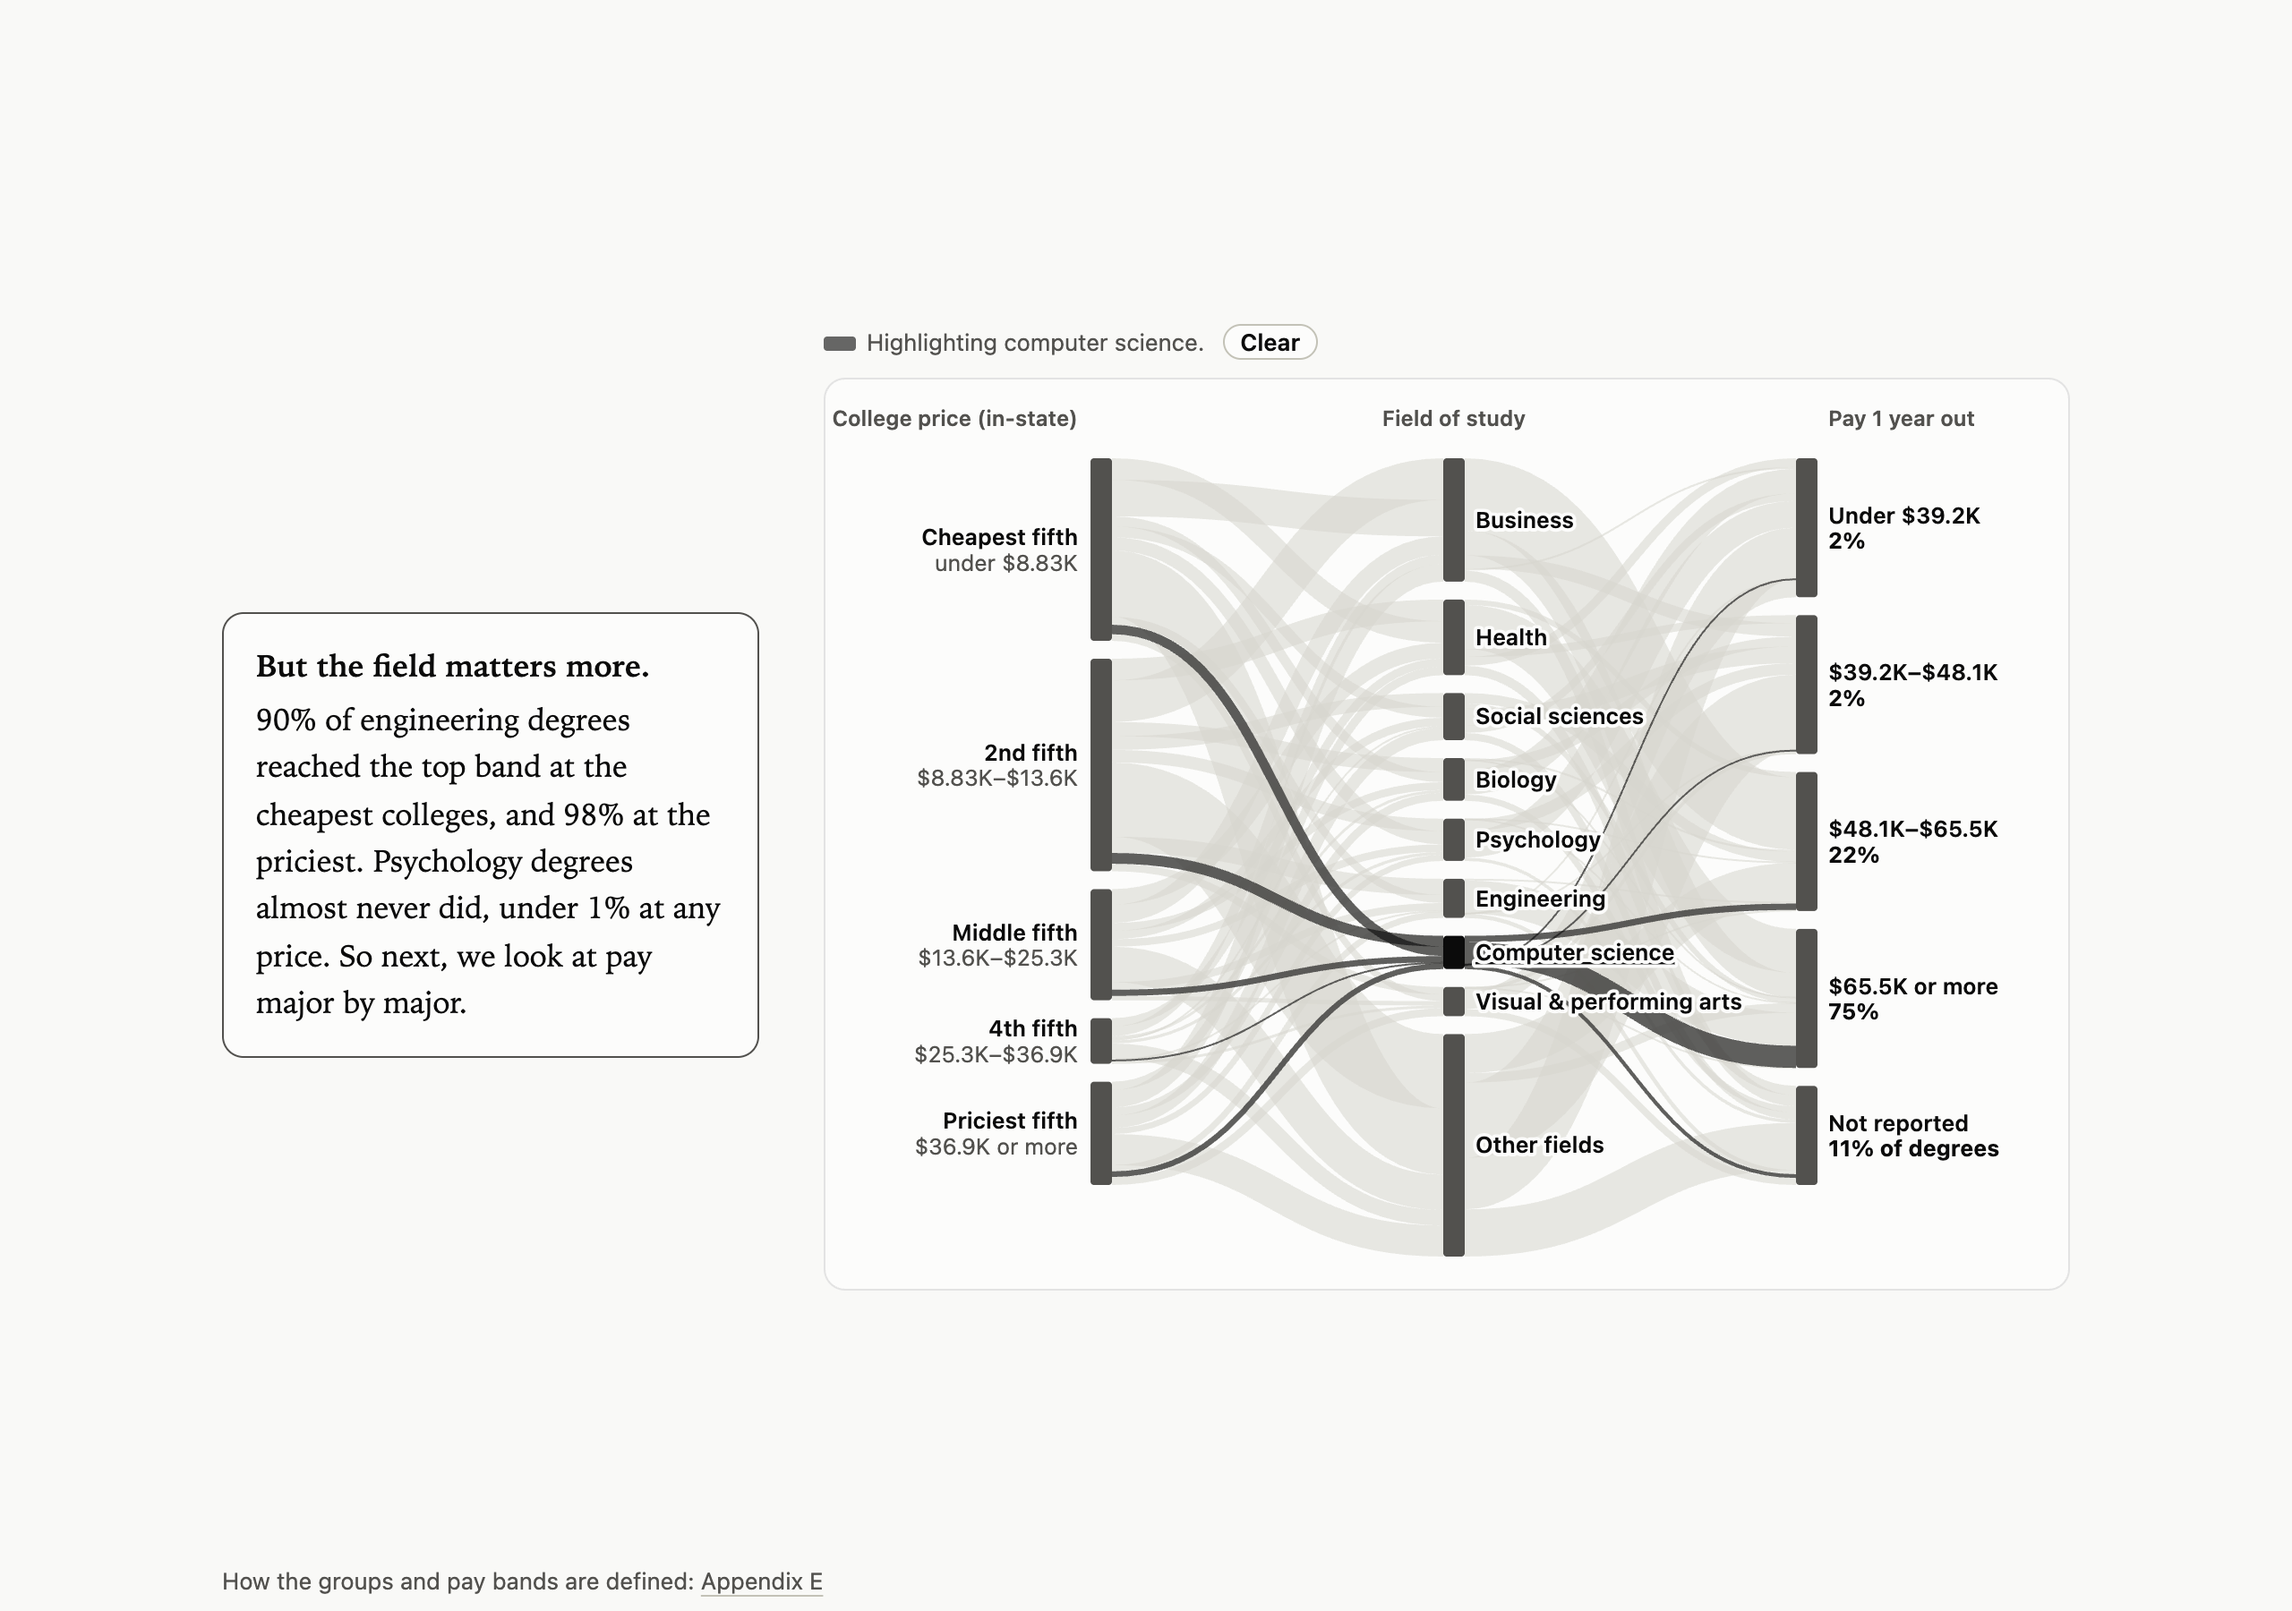
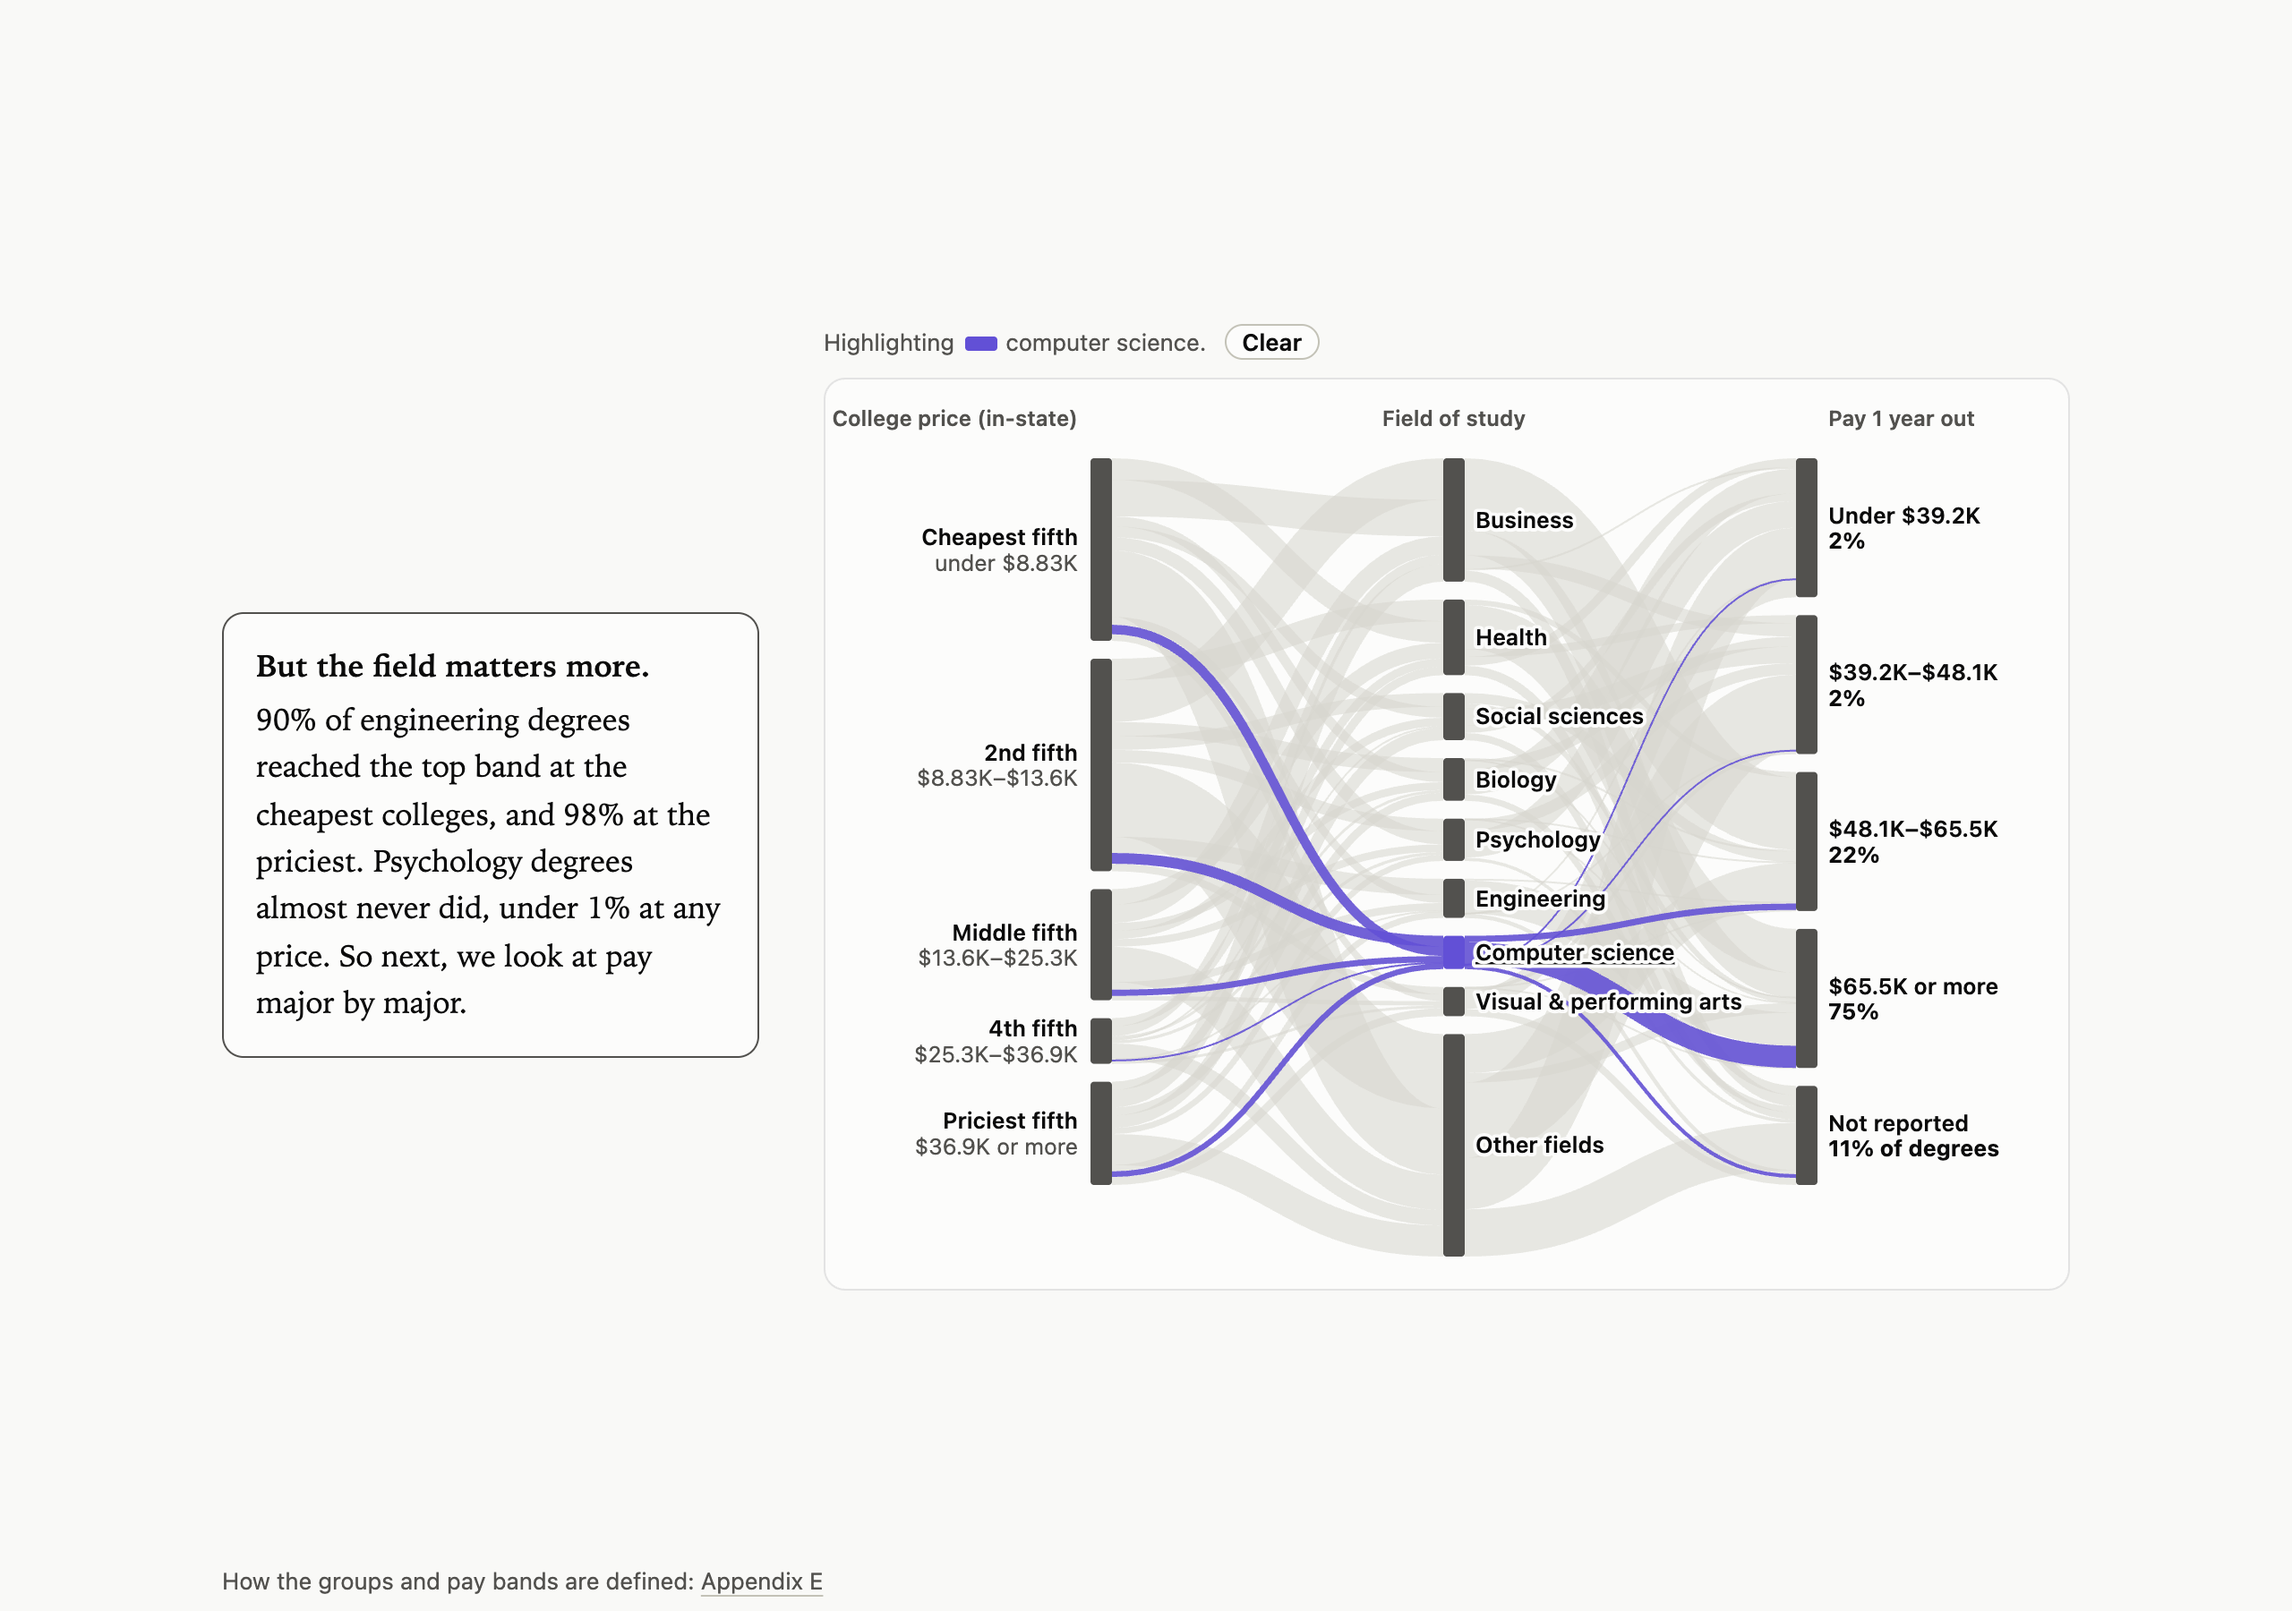
Color the flow chart's highlights instead of drawing them in black
Highlighted flows now use palette slot 7 (violet), and a second group
uses slot 5 (magenta), so the engineering vs. psychology step shows two
distinguishable colors. Highlighted node bars and the swatches in the
note above the chart take the same color, so each color sits next to
its label; text stays in the ink color. School-type hues (blue, orange,
green) are not reused. Both colors validated for light and dark
surfaces (dark steps #9085e9 / #d55181) as --hl-1 / --hl-2 tokens.

Highlights are now a list of groups, each drawn in its own color and
stacked within a flow if they ever overlap. check_flow.mjs gains two
color checks (23 total).

diff --git a/src/lib/components/FlowSankey.svelte b/src/lib/components/FlowSankey.svelte
@@ -2,7 +2,8 @@
 	// D3 visualization 3: a Sankey of bachelor's degrees flowing from the price of the college (fifths of
 	// schools by published in-state tuition) to the field studied to the program's early-earnings band.
 	// All flows stay in gray; a highlight (story step, clicked node, or the brushed tuition range) is drawn
-	// on top in ink as the part of each flow that belongs to it.
+	// on top, in color, as the part of each flow that belongs to it. Up to two groups can be highlighted at
+	// once, each in its own color (--hl-1 violet, --hl-2 magenta).
 	import * as d3 from 'd3';
 	import { sankey, sankeyLinkHorizontal } from 'd3-sankey';
 	import { onMount, untrack } from 'svelte';
@@ -11,7 +12,7 @@
 
 	let {
 		flow, // flowData(): { rows, brackets, fields, bands }
-		highlight = null, // { keep(row) -> bool, nodes: Set of node ids, shares?: false } or null
+		highlight = null, // { groups: [{ node: id | null, keep(row) -> bool }] } or null; one color per group
 		picked = null, // node id the reader clicked (drawn with a ring)
 		height = 440,
 		onpick // (nodeId) => void
@@ -177,33 +178,50 @@
 	function applyHighlight(hl, picked) {
 		if (!svgEl || !graph) return;
 		const svg = d3.select(svgEl);
-		const sub = hl ? flowLinks(flow.rows, hl.keep) : null;
+		const groups = hl?.groups ?? [];
 		const reduce = window.matchMedia('(prefers-reduced-motion: reduce)').matches;
 		const linkH = (d) => Math.max(1, d.width);
-		// The highlighted part of a flow is drawn along the top edge of that flow, at its share of the width.
-		const part = (d) => (sub?.get(d.id) ?? 0) / d.value;
-		const path = (d) => {
-			const w = linkH(d) * part(d);
-			const dy = -linkH(d) / 2 + w / 2;
-			return d3.linkHorizontal()({ source: [d.source.x1, d.y0 + dy], target: [d.target.x0, d.y1 + dy] });
+		// Each group's part of a flow is drawn along the top edge of that flow at its share of the width,
+		// stacked below any earlier group's part, so overlapping groups never cover each other.
+		const segs = [];
+		const used = new Map(); // link id -> share of its width already drawn
+		groups.forEach((g, gi) => {
+			const sub = flowLinks(flow.rows, g.keep);
+			for (const d of graph.links) {
+				const part = (sub.get(d.id) ?? 0) / d.value;
+				if (part <= 0) continue;
+				const before = used.get(d.id) ?? 0;
+				used.set(d.id, before + part);
+				segs.push({ key: `${gi}|${d.id}`, gi, d, part, before });
+			}
+		});
+		const path = (s) => {
+			const h = linkH(s.d);
+			const dy = -h / 2 + h * s.before + (h * s.part) / 2;
+			return d3.linkHorizontal()({ source: [s.d.source.x1, s.d.y0 + dy], target: [s.d.target.x0, s.d.y1 + dy] });
 		};
 
-		svg.select('g.base').classed('muted', !!hl);
+		svg.select('g.base').classed('muted', groups.length > 0);
 		const ink = svg
 			.select('g.ink')
 			.selectAll('path')
-			.data(hl ? graph.links.filter((d) => part(d) > 0) : [], (d) => d.id)
+			.data(segs, (s) => s.key)
 			.join('path')
-			.attr('d', path);
-		(reduce ? ink : ink.transition().duration(300)).attr('stroke-width', (d) => Math.max(0.75, linkH(d) * part(d)));
+			.attr('d', path)
+			.attr('stroke', (s) => `var(--hl-${s.gi + 1})`);
+		(reduce ? ink : ink.transition().duration(300)).attr('stroke-width', (s) => Math.max(0.75, linkH(s.d) * s.part));
 
+		// Highlighted nodes take their group's color, so each color sits next to its own label.
+		const groupOf = (id) => groups.findIndex((g) => g.node === id);
 		svg.selectAll('g.node')
-			.classed('on', (d) => !!hl?.nodes.has(d.id))
-			.classed('picked', (d) => d.id === picked);
+			.classed('on', (d) => groupOf(d.id) >= 0)
+			.classed('picked', (d) => d.id === picked)
+			.select('.bar')
+			.style('fill', (d) => (groupOf(d.id) >= 0 ? `var(--hl-${groupOf(d.id) + 1})` : null));
 
-		// Right-hand labels show where the highlighted degrees end up
-		// (hidden when several groups are highlighted together, since one share would blend them)
-		const shares = hl && hl.shares !== false ? bandShares(flow.rows, hl.keep) : null;
+		// Right-hand labels show where the highlighted degrees end up (only for a single group, since one
+		// share would blend two groups together)
+		const shares = groups.length === 1 ? bandShares(flow.rows, groups[0].keep) : null;
 		svg.selectAll('tspan.share').text((d) =>
 			shares && shares[d.data.key] != null ? `${fmtPct(shares[d.data.key], 0)}${d.data.key === 4 ? ' of degrees' : ''}` : ''
 		);
@@ -258,8 +276,7 @@
 		stroke-opacity: 0.55;
 	}
 	.chart :global(g.ink path) {
-		stroke: var(--ink);
-		stroke-opacity: 0.62;
+		stroke-opacity: 0.88;
 	}
 	.chart :global(g.node) {
 		cursor: pointer;
@@ -267,9 +284,6 @@
 	}
 	.chart :global(g.node .bar) {
 		fill: var(--ink-2);
-	}
-	.chart :global(g.node.on .bar) {
-		fill: var(--ink);
 	}
 	.chart :global(g.node .label) {
 		fill: var(--ink);

diff --git a/src/routes/+page.svelte b/src/routes/+page.svelte
@@ -316,22 +316,16 @@
 		if (!flow) return null;
 		const story = STORY_FLOW[flowStep] ?? null;
 		const ids = flowStep === 1 || flowStep === 2 ? story : flowPick ? [flowPick] : story;
+		// One color group per highlighted node (the chart colors them --hl-1, --hl-2)
 		if (ids) {
-			const keeps = ids.map(keepNode);
 			return {
-				nodes: new Set(ids),
-				keep: (r) => keeps.some((k) => k(r)),
-				label: ids.map(flowNodeName).join(' and '),
-				shares: ids.length === 1,
+				groups: ids.map((id) => ({ node: id, keep: keepNode(id), label: flowNodeName(id) })),
 				fromPick: ids[0] === flowPick && !(flowStep === 1 || flowStep === 2)
 			};
 		}
 		if (selIds) {
-			return {
-				nodes: new Set(),
-				keep: (r) => selIds.has(r.unitid),
-				label: `colleges in your range, ${fmtUSD(range[0])}–${fmtUSD(range[1])} (${residency === 'out' ? 'out-of-state' : 'in-state'})`
-			};
+			const label = `colleges in your range, ${fmtUSD(range[0])}–${fmtUSD(range[1])} (${residency === 'out' ? 'out-of-state' : 'in-state'})`;
+			return { groups: [{ node: null, keep: (r) => selIds.has(r.unitid), label }] };
 		}
 		return null;
 	});
@@ -575,7 +569,10 @@
 					<div class="sticky" bind:clientHeight={flowStickyH}>
 						<p class="flow-note ui" data-testid="flow-note" aria-live="polite">
 							{#if flowHighlight}
-								<span><span class="key-ink"></span>Highlighting {flowHighlight.label}.</span>
+								<span>
+									Highlighting
+									{#each flowHighlight.groups as g, i (g.label)}{#if i > 0}{' and '}{/if}<span class="key-hl" style:background="var(--hl-{i + 1})"></span>{g.label}{/each}.
+								</span>
 								{#if flowHighlight.fromPick}<button class="chip" onclick={() => (flowPick = null)}>Clear</button>{/if}
 							{:else}
 								<span class="hint">
@@ -1321,15 +1318,13 @@
 		color: var(--ink);
 		font-weight: 600;
 	}
-	.key-ink {
+	.key-hl {
 		display: inline-block;
 		width: 18px;
 		height: 8px;
-		margin-right: 6px;
+		margin: 0 5px 0 2px;
 		border-radius: 2px;
 		vertical-align: middle;
-		background: var(--ink);
-		opacity: 0.62;
 	}
 	.offered-note {
 		flex-wrap: wrap;

diff --git a/src/app.css b/src/app.css
@@ -20,6 +20,9 @@
 	--c-nonprofit: #eb6834;
 	--c-forprofit: #1baf7a;
 	--accent: #2a78d6;
+	/* Flow-chart highlights: palette slots 7 (violet) and 5 (magenta), never the school-type hues */
+	--hl-1: #6250d6;
+	--hl-2: #e87ba4;
 	--draft: #9a6b00;
 	--draft-wash: #fbf4e2;
 
@@ -51,6 +54,8 @@
 		--c-nonprofit: #d95926;
 		--c-forprofit: #199e70;
 		--accent: #3987e5;
+		--hl-1: #9085e9;
+		--hl-2: #d55181;
 		--draft: #e0b04a;
 		--draft-wash: #26211a;
 	}
@@ -76,6 +81,8 @@
 	--c-nonprofit: #d95926;
 	--c-forprofit: #199e70;
 	--accent: #3987e5;
+	--hl-1: #9085e9;
+	--hl-2: #d55181;
 	--draft: #e0b04a;
 	--draft-wash: #26211a;
 }
